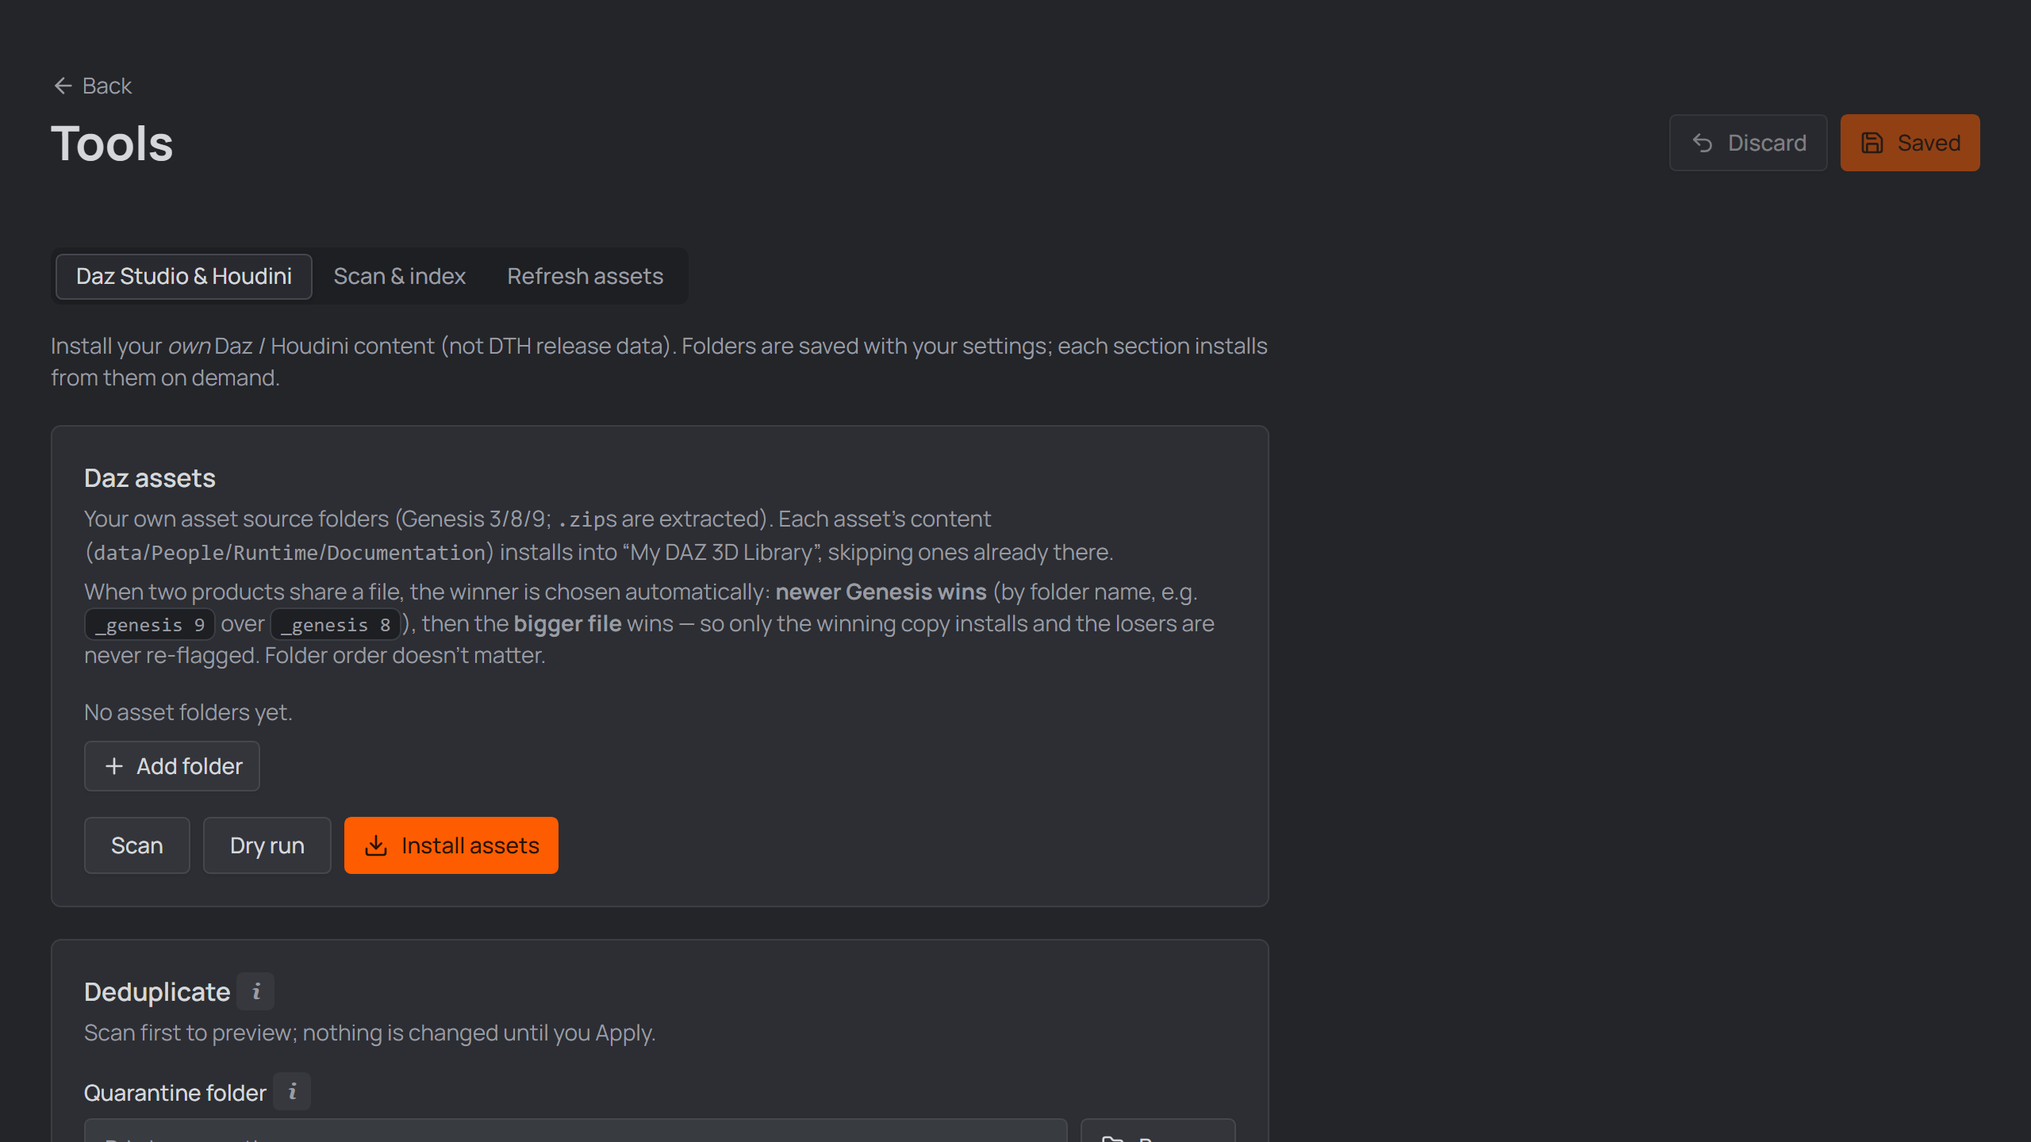
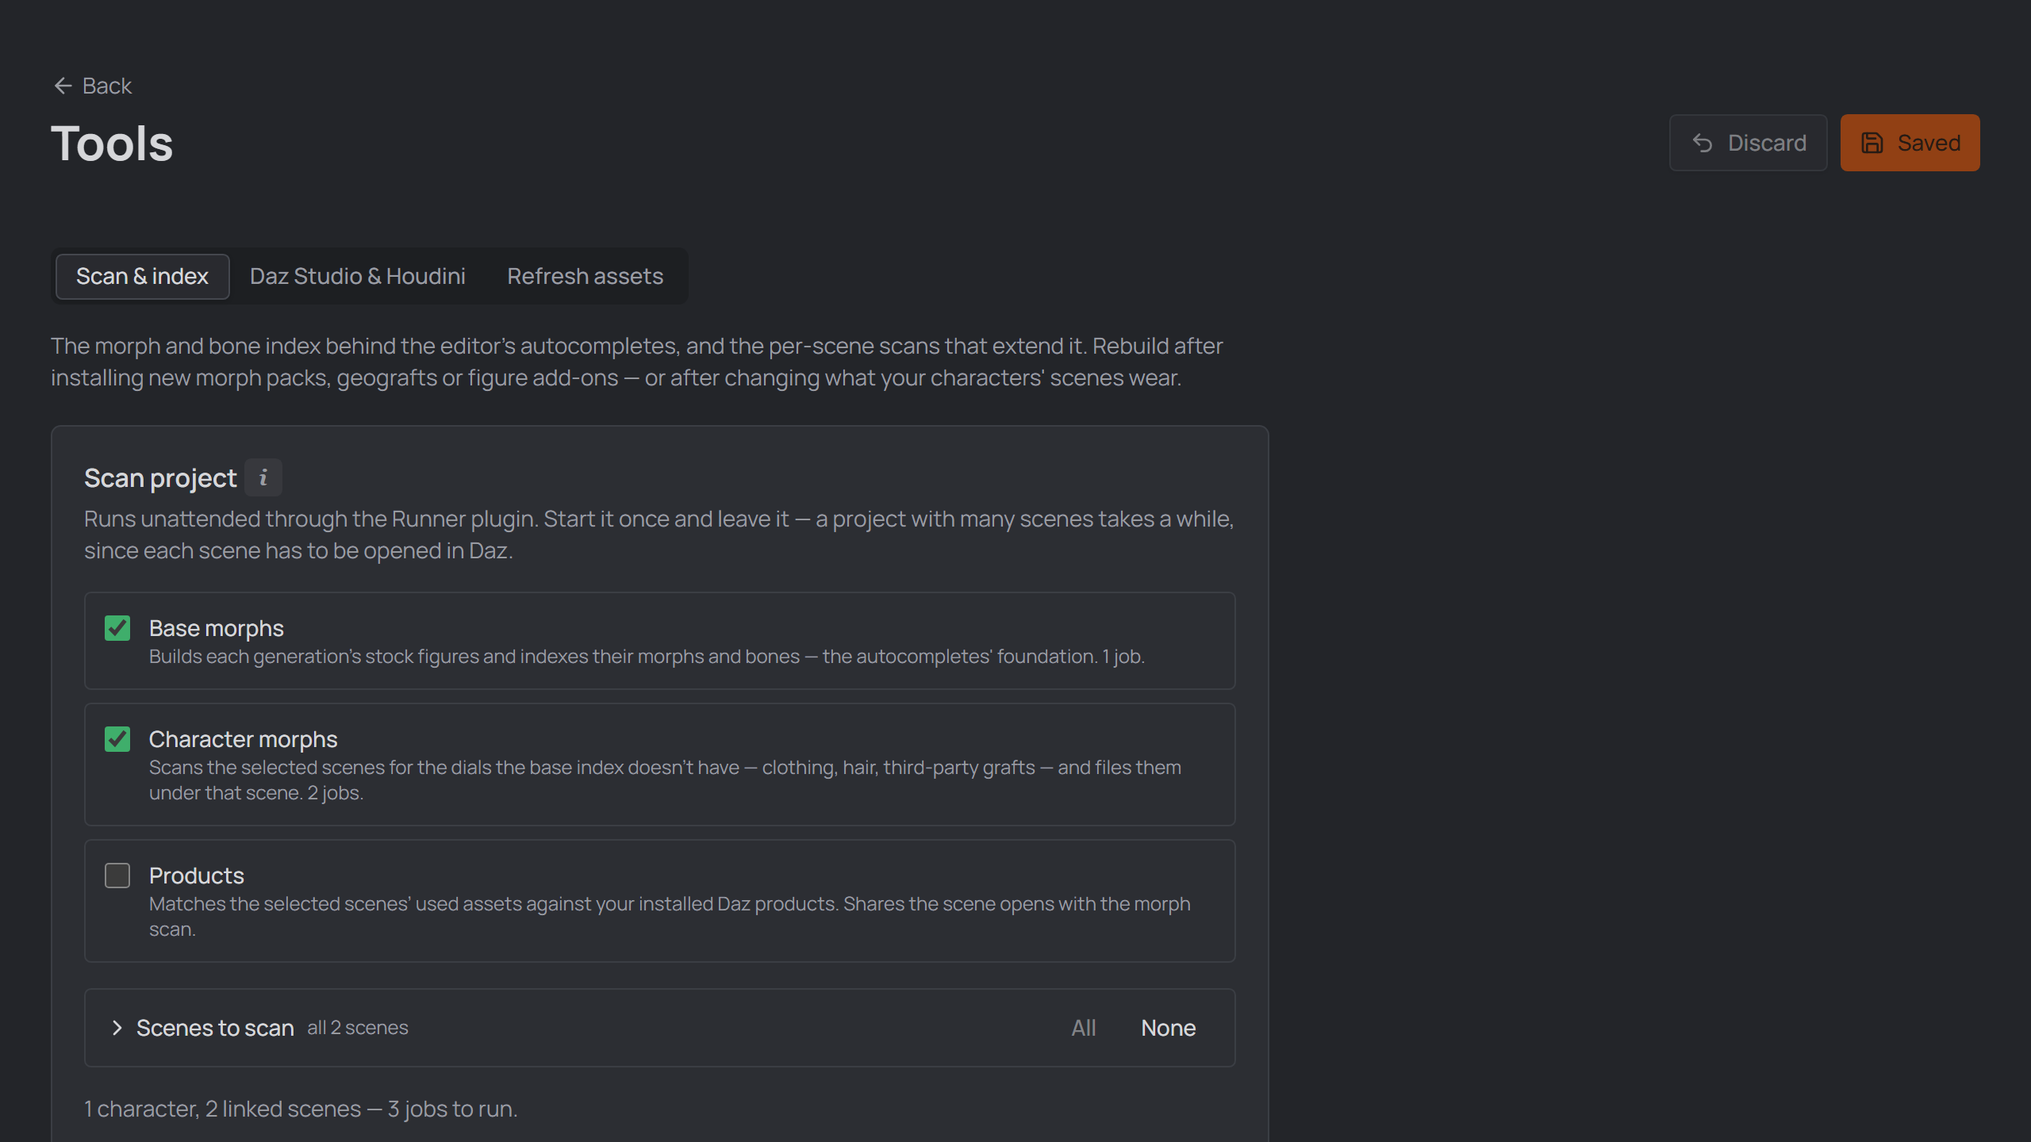
feat(web): Scan & index leads the Tools page, and the guide follows
Tab order is now Scan & index / Daz Studio & Houdini / Refresh assets, with
Scan & index the default — a plain /tools lands on the scan panel,
?tab=install addresses the installers, and the existing ?tab=index /
?tab=refresh deep links keep working (every in-app link uses tab=refresh,
unaffected). guide/tools.md swaps Tab 1 and Tab 2 to match; the three
tab-numbered cross-links (02-setup, 04-first-character, product-scanning)
follow, as do the .ai notes (architecture row, docs-site slug example).
tools-page.png is now shot in a project window so the intro image shows the
new default tab's full panel; tools-refresh.png picks up the reordered bar.

Claude-Session: https://claude.ai/code/session_01Fhwa5xWus8FxN9k5Z4c4Ee

diff --git a/apps/web/src/routes/tools.tsx b/apps/web/src/routes/tools.tsx
@@ -291,22 +291,40 @@ function ToolsPage() {
           /tools — an uncontrolled Tabs ignored the URL change (same route match,
           no remount). onValueChange keeps the URL in sync when the user clicks. */}
       <Tabs
-        value={tab === 'refresh' || tab === 'index' ? tab : 'install'}
+        value={tab === 'refresh' || tab === 'install' ? tab : 'index'}
         onValueChange={(value) =>
           void router.navigate({
             to: '/tools',
-            search: value === 'install' ? {} : { tab: value },
+            search: value === 'index' ? {} : { tab: value },
           })
         }
         className="max-w-3xl"
       >
         <TabsList>
-          <TabsTrigger value="install">Daz Studio &amp; Houdini</TabsTrigger>
-          {/* The `index` value stays put — `?tab=index` deep links (and the
-              About page's) must keep working across the rename. */}
+          {/* Scan & index leads — it's the tab a project's daily flow needs;
+              the installers are one-time setup. The `index` value stays put so
+              `?tab=index` deep links keep working; a plain /tools now lands
+              here, and `?tab=install` addresses the installers. */}
           <TabsTrigger value="index">Scan &amp; index</TabsTrigger>
+          <TabsTrigger value="install">Daz Studio &amp; Houdini</TabsTrigger>
           <TabsTrigger value="refresh">Refresh assets</TabsTrigger>
         </TabsList>
+
+        <TabsContent value="index" className="space-y-5">
+          <p className="text-sm text-muted-foreground">
+            The morph and bone index behind the editor's autocompletes, and the per-scene scans
+            that extend it. Rebuild after installing new morph packs, geografts or figure
+            add-ons — or after changing what your characters' scenes wear.
+          </p>
+          <ProjectScanSection
+            // The route-param convention: a `projectId` IS the project FOLDER
+            // PATH (`resolveProject` reads the manifest from it). `project.id`
+            // is the manifest's own id and resolves to nothing. '' from Home,
+            // where the panel offers the base pass only.
+            projectId={activeProject?.path ?? ''}
+            dazLibraryConfigured={settings.dazLibraryFolder.trim() !== ''}
+          />
+        </TabsContent>
 
         <TabsContent value="install" className="space-y-5">
           <p className="text-sm text-muted-foreground">
@@ -394,22 +412,6 @@ function ToolsPage() {
             onConfirmChange={setUninstallConfirm}
             onDryRun={() => void runUninstall(true)}
             onDelete={() => void runUninstall(false)}
-          />
-        </TabsContent>
-
-        <TabsContent value="index" className="space-y-5">
-          <p className="text-sm text-muted-foreground">
-            The morph and bone index behind the editor's autocompletes, and the per-scene scans
-            that extend it. Rebuild after installing new morph packs, geografts or figure
-            add-ons — or after changing what your characters' scenes wear.
-          </p>
-          <ProjectScanSection
-            // The route-param convention: a `projectId` IS the project FOLDER
-            // PATH (`resolveProject` reads the manifest from it). `project.id`
-            // is the manifest's own id and resolves to nothing. '' from Home,
-            // where the panel offers the base pass only.
-            projectId={activeProject?.path ?? ''}
-            dazLibraryConfigured={settings.dazLibraryFolder.trim() !== ''}
           />
         </TabsContent>
 

diff --git a/apps/web/smoke/guide.screenshots.ts b/apps/web/smoke/guide.screenshots.ts
@@ -182,22 +182,24 @@ test('home', async ({ page }) => {
 // else → '/') that a hard goto/reload would re-trigger, bouncing the shot back
 // to the home screen. A client-side Link click doesn't reload, so the route sticks.
 test('tools-page', async ({ page }) => {
-  await openTools(page)
+  // The page's intro shot shows the DEFAULT tab — Scan & index — which only
+  // shows its full panel inside a project window, so open Tools there.
+  await openScanTab(page)
   await shoot(page, join(OUT, 'tools-page.png'))
 })
 
 test('tools-daz-assets', async ({ page }) => {
-  await openTools(page)
+  await openInstallTab(page)
   await shoot(page, join(OUT, 'tools-daz-assets.png'), card(page, 'Daz assets'))
 })
 
 test('tools-deduplicate', async ({ page }) => {
-  await openTools(page)
+  await openInstallTab(page)
   await shoot(page, join(OUT, 'tools-deduplicate.png'), card(page, 'Deduplicate'))
 })
 
 test('tools-danger-zone', async ({ page }) => {
-  await openTools(page)
+  await openInstallTab(page)
   await shoot(page, join(OUT, 'tools-danger-zone.png'), card(page, 'Danger zone'))
 })
 
@@ -244,7 +246,7 @@ async function openScanTab(page: Page) {
   await page.goto('/')
   await page.getByRole('link', { name: /Kira/ }).waitFor()
   await page.getByRole('link', { name: 'Tools' }).click()
-  await page.getByRole('tab', { name: 'Scan & index' }).click()
+  // Scan & index is the default tab — just wait for the panel to be ready.
   await page.getByRole('button', { name: 'Start scan' }).waitFor()
 }
 
@@ -254,12 +256,20 @@ function card(page: Page, heading: string): Locator {
   return page.locator('section').filter({ has: page.getByRole('heading', { name: heading }) })
 }
 
-/** Open the Tools page (Home window → header "Tools" link). */
+/** Open the Tools page (Home window → header "Tools" link). Lands on the
+ *  default Scan & index tab. */
 async function openTools(page: Page) {
   await prime(page, buildSeed())
   await page.goto('/')
   await page.getByRole('heading', { name: 'DTH Character Studio' }).waitFor()
   await page.getByRole('link', { name: 'Tools' }).click()
+}
+
+/** Tools → the Daz Studio & Houdini installers tab (no longer the default). */
+async function openInstallTab(page: Page) {
+  await openTools(page)
+  await page.getByRole('tab', { name: 'Daz Studio & Houdini' }).click()
+  await page.getByRole('heading', { name: 'Daz assets' }).waitFor()
 }
 
 /** Open the demo character's editor in a project window. Extra seed options tune

diff --git a/docs/guide/tools.md b/docs/guide/tools.md
@@ -1,7 +1,8 @@
 # The Tools page
 
-The **Tools** page (top-right) is where you install and maintain *your own* Daz /
-Houdini content and keep the studio's generated files in sync. **Everything here
+The **Tools** page (top-right) is where you keep the studio's morph index
+fresh, install and maintain *your own* Daz / Houdini content, and keep the
+studio's generated files in sync. **Everything here
 is optional** — you never need it to define a character and generate its ROM.
 The [one-time setup](./02-setup.md) covered installing the DTH release +
 Exporter; Tools is for the extras beyond that.
@@ -25,7 +26,78 @@ Exporter; Tools is for the extras beyond that.
 
 ---
 
-## Tab 1 — Daz Studio & Houdini
+## Tab 1 — Scan & index
+
+The morph and bone index behind the editor's autocompletes, and the per-scene
+scans that extend it.
+
+### Scan project
+
+One pass over everything a project can be scanned for. Tick what you want,
+press **Start scan**, and leave it — the studio hands Daz Studio a single batch
+and works through it unattended, reporting progress on the button. The batch
+goes through the
+[**Runner plugin**](./02-setup.md#install-the-dth-character-studio-runner-plugin),
+so Start stays off until the Runner is installed and **My DAZ 3D Library** is
+set in [Settings](./02-setup.md).
+
+<p align="center">
+  <img width="900" alt="The Scan project panel on the Scan &amp; index tab" src="screenshots/tools-scan-index.png" />
+  <br>
+  <sub><em>The Scan project panel: tick the passes, press Start scan, leave it.</em></sub>
+</p>
+
+- **Base morphs** — builds each generation's stock figures and indexes their
+  morphs and bones (exactly what
+  [`Build_Genesis_Index`](./04-first-character.md#the-rom-definition) does). One
+  job. It runs **first**, because the scene scans below filter themselves
+  against it.
+- **Character morphs** — opens every linked Daz scene of every character and
+  indexes the dials the base index *doesn't* have: fitted clothing, hair,
+  third-party geografts and add-ons. Each find is filed under the scene it was
+  found in. One job per scene.
+- **Products** — runs the [Daz Products scan](./product-scanning.md) for the
+  same scenes. Only available when the project has *Daz Products* switched on
+  (**Settings → Project**); it shares the scene opens with the morph scan, so
+  ticking both costs no extra time.
+
+**Scenes to scan** — the two scene passes default to every linked scene, but
+each one is a full Daz open, so a big project is a long run. Expand the list to
+tick exactly what you want (per scene, or a whole character at once); **All** /
+**None** are there for the extremes. The job count updates as you pick, so you
+can see what you're committing to before you press Start. The picker governs
+both scene passes together — a scene is opened once and runs whichever scans it
+is due for. Scenes whose `.duf` is missing on disk are listed struck through and
+never enqueued.
+
+<p align="center">
+  <img width="900" alt="The Scenes to scan picker expanded — per-character tri-state and one card per scene" src="screenshots/tools-scan-scenes.png" />
+  <br>
+  <sub><em>The expanded scene picker: a tri-state box per character, a card per scene.</em></sub>
+</p>
+
+Because each scene has to be opened in Daz, a project with many scenes takes a
+while — that's the point of it being one unattended run. While the batch is
+still waiting for Daz to pick it up you can **Abort** it; once Daz has claimed
+it, the run belongs to Daz.
+
+Reached from the **Home** window (no project open), the two scene passes are
+disabled and **Base morphs** runs on its own — that pass belongs to no project.
+
+> [!NOTE]
+> **Why scene morphs are scoped to their scene.** Two outfits in two different
+> scenes both have an *Expand All* dial. Before, the autocomplete offered both
+> and you had to know which was which. Now a scene-scanned morph is only
+> suggested while **that** scene is the one selected in the character editor,
+> marked with a small **this scene** badge. Morphs the base figure carries are
+> always offered. Re-scanning a scene *replaces* what it contributed, so
+> clothing you removed stops being suggested. You rarely have to re-run this
+> by hand: every ROM/export run re-scans the scene it just built, so a scene's
+> suggestions follow what it actually wears.
+
+---
+
+## Tab 2 — Daz Studio & Houdini
 
 Install your **own** Daz / Houdini content (not DTH release data). Each section
 remembers its folders in Settings and installs from them on demand. **Dry run**
@@ -94,77 +166,6 @@ into that version's `houdini.env` (`SHARED_PRESETS` + `HOUDINI_PATH`).
   <br>
   <sub><em>The Danger zone for removing leftover Daz folders.</em></sub>
 </p>
-
----
-
-## Tab 2 — Scan & index
-
-The morph and bone index behind the editor's autocompletes, and the per-scene
-scans that extend it.
-
-### Scan project
-
-One pass over everything a project can be scanned for. Tick what you want,
-press **Start scan**, and leave it — the studio hands Daz Studio a single batch
-and works through it unattended, reporting progress on the button. The batch
-goes through the
-[**Runner plugin**](./02-setup.md#install-the-dth-character-studio-runner-plugin),
-so Start stays off until the Runner is installed and **My DAZ 3D Library** is
-set in [Settings](./02-setup.md).
-
-<p align="center">
-  <img width="900" alt="The Scan project panel on the Scan &amp; index tab" src="screenshots/tools-scan-index.png" />
-  <br>
-  <sub><em>The Scan project panel: tick the passes, press Start scan, leave it.</em></sub>
-</p>
-
-- **Base morphs** — builds each generation's stock figures and indexes their
-  morphs and bones (exactly what
-  [`Build_Genesis_Index`](./04-first-character.md#the-rom-definition) does). One
-  job. It runs **first**, because the scene scans below filter themselves
-  against it.
-- **Character morphs** — opens every linked Daz scene of every character and
-  indexes the dials the base index *doesn't* have: fitted clothing, hair,
-  third-party geografts and add-ons. Each find is filed under the scene it was
-  found in. One job per scene.
-- **Products** — runs the [Daz Products scan](./product-scanning.md) for the
-  same scenes. Only available when the project has *Daz Products* switched on
-  (**Settings → Project**); it shares the scene opens with the morph scan, so
-  ticking both costs no extra time.
-
-**Scenes to scan** — the two scene passes default to every linked scene, but
-each one is a full Daz open, so a big project is a long run. Expand the list to
-tick exactly what you want (per scene, or a whole character at once); **All** /
-**None** are there for the extremes. The job count updates as you pick, so you
-can see what you're committing to before you press Start. The picker governs
-both scene passes together — a scene is opened once and runs whichever scans it
-is due for. Scenes whose `.duf` is missing on disk are listed struck through and
-never enqueued.
-
-<p align="center">
-  <img width="900" alt="The Scenes to scan picker expanded — per-character tri-state and one card per scene" src="screenshots/tools-scan-scenes.png" />
-  <br>
-  <sub><em>The expanded scene picker: a tri-state box per character, a card per scene.</em></sub>
-</p>
-
-Because each scene has to be opened in Daz, a project with many scenes takes a
-while — that's the point of it being one unattended run. While the batch is
-still waiting for Daz to pick it up you can **Abort** it; once Daz has claimed
-it, the run belongs to Daz.
-
-Reached from the **Home** window (no project open), the two scene passes are
-disabled and **Base morphs** runs on its own — that pass belongs to no project.
-
-> [!NOTE]
-> **Why scene morphs are scoped to their scene.** Two outfits in two different
-> scenes both have an *Expand All* dial. Before, the autocomplete offered both
-> and you had to know which was which. Now a scene-scanned morph is only
-> suggested while **that** scene is the one selected in the character editor,
-> marked with a small **this scene** badge. Morphs the base figure carries are
-> always offered. Re-scanning a scene *replaces* what it contributed, so
-> clothing you removed stops being suggested. You rarely have to re-run this
-> by hand: every ROM/export run re-scans the scene it just built, so a scene's
-> suggestions follow what it actually wears.
 
 ---
 

diff --git a/.ai/architecture.md b/.ai/architecture.md
@@ -55,7 +55,7 @@ supplies it in `apps/web/src/routes/__root.tsx`. Single public entry
 | `projects.$projectId.index.tsx` | Project overview: character grid/list, create character, attachments + notes tabs, Unreal footer. |
 | `projects.$projectId.characters.$characterId.tsx` | **The character editor** — draft/save/generate. Decomposed: the route (~640 lines) composes `components/character/*` sections (editor-header — which hosts the DTH Export dialog, `dth-export.tsx` — identity, scripts, export-settings, rom-editor, operations-section, rom-run-log-report, scene-footer, frame-zero/preserve/groom fields) + `components/houdini-projects-field.tsx` + `lib/use-scene-selection` / `use-rom-run-log` / `character-paths`. The ROM subtree (`RomSections`/`PoseGroupsEditor`/`GroupCard`) is `React.memo`d with latest-ref, id-routed callbacks — new props into it must keep stable identities or the memo chain silently dies. |
 | `settings.tsx` | Project tab (`.dcsp` manifest) + General (machine tool paths) + App Data. |
-| `tools.tsx` | Three tabs: install (Daz/Houdini content install sections, dedup, danger zone), **Scan & index** (`ProjectScanSection`, `components/tools/project-scan-section.tsx`), Refresh assets. |
+| `tools.tsx` | Three tabs, **Scan & index** first and the default (`ProjectScanSection`, `components/tools/project-scan-section.tsx`; a plain `/tools` lands here, `?tab=install` / `?tab=refresh` address the others), then install (Daz/Houdini content install sections, dedup, danger zone), then Refresh assets. |
 | `about.tsx` | Version, asset staleness summary, links. |
 
 **Key fact: the `$projectId` route param IS the project folder path.** One

diff --git a/.ai/docs-site.md b/.ai/docs-site.md
@@ -41,7 +41,7 @@ plain browser JS; keep them dependency-free.
   - **An `&` in a heading slugifies to `-amp-`, not `-`.** `slugify` runs on the
     RENDERED inline HTML, where markdown-it has already escaped `&` to `&amp;`;
     stripping the non-alphanumerics then leaves the literal word `amp`. So
-    `## Tab 2 — Scan & index` is `#tab-2--scan-amp-index` (and the em dash, being
+    `## Tab 1 — Scan & index` is `#tab-1--scan-amp-index` (and the em dash, being
     stripped between two spaces, is why the doubled `--` is there at all). The
     existing `advanced.html#multiple-daz-scenes--outfits-amp-hair-variants` is
     the same shape. Guessing the "obvious" slug for a heading with an `&` fails

diff --git a/docs/guide/02-setup.md b/docs/guide/02-setup.md
@@ -67,7 +67,7 @@ automatic direct export.
 The **Runner plugin** ships **inside the app** — nothing to download. It lets
 the studio drive Daz Studio: the
 [**DTH Export** batch](./05-rom-in-daz.md#batch-export--dth-export),
-[**Tools → Scan & index → Scan project**](./tools.md#tab-2--scan-amp-index),
+[**Tools → Scan & index → Scan project**](./tools.md#tab-1--scan-amp-index),
 and opening scenes in an already-running Daz all go through it. With the Daz Studio install
 folder set (above), press **Install** — the panel shows the bundled version,
 the exact version installed in Daz, and says when an update is pending. The

diff --git a/docs/guide/product-scanning.md b/docs/guide/product-scanning.md
@@ -56,7 +56,7 @@ Settings → "Download/Install"). The scan reads it to resolve used assets to re
 
 Most of the time you never run one by hand: **every ROM/export run scans the
 scene it just built**, and
-[**Tools → Scan & index → Scan project**](./tools.md#tab-2--scan-amp-index)
+[**Tools → Scan & index → Scan project**](./tools.md#tab-1--scan-amp-index)
 covers every scene of every character in one unattended batch. The manual run
 below stays for a one-off scene:
 

diff --git a/docs/guide/04-first-character.md b/docs/guide/04-first-character.md
@@ -381,7 +381,7 @@ single name.
 
 The index behind the autocomplete is something the studio builds **for you**
 — there is no script to hunt down: open
-[**Tools → Scan & index → Scan project**](./tools.md#tab-2--scan-amp-index),
+[**Tools → Scan & index → Scan project**](./tools.md#tab-1--scan-amp-index),
 tick what you want and press **Start scan**. The studio hands Daz Studio one
 batch and works through it unattended, reporting progress on the button.
 

diff --git a/.changeset/tools-scan-tab-first.md b/.changeset/tools-scan-tab-first.md
@@ -1,0 +1,8 @@
+---
+'@dth/web': patch
+---
+
+Tools now opens on **Scan & index** — the tab order is Scan & index, Daz
+Studio & Houdini, Refresh assets. A plain `/tools` lands on the scan panel;
+`?tab=install` addresses the installers, and existing `?tab=index` /
+`?tab=refresh` deep links keep working unchanged.
